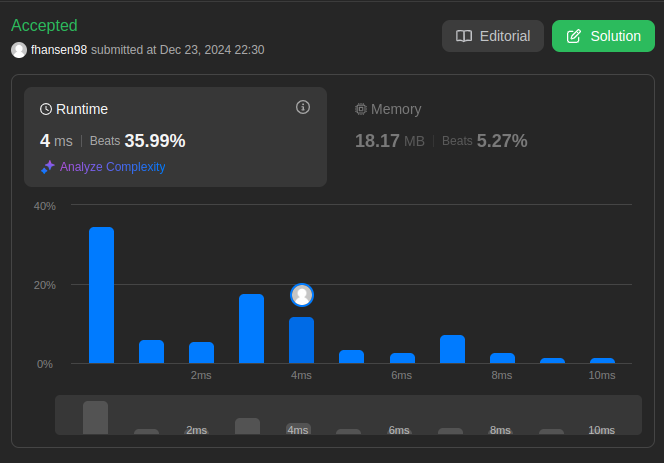
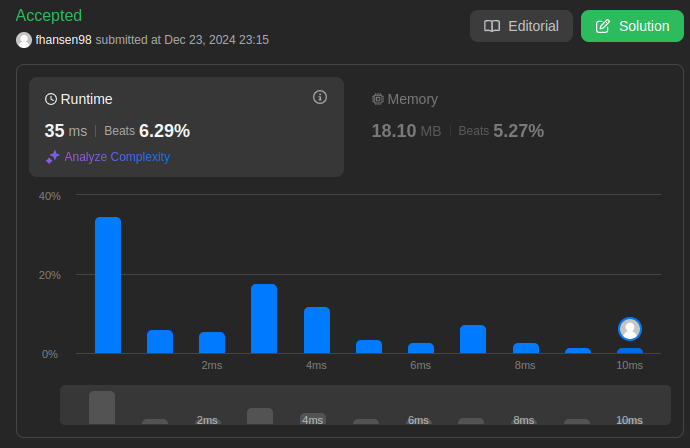
otimizacao da questao 4 para fazer o

diff --git a/Questão_4/questão_4.py b/Questão_4/questão_4.py
@@ -3,22 +3,41 @@ class Solution:
         i, j = 0, 0
         arrayResultante = [] # array resultante do merge dos dois arrays
 
-        # mescla os dois arrays de forma linear
-        while i < len(nums1) and j < len(nums2):
-            if nums1[i] <= nums2[j]:
-                arrayResultante.append(nums1[i])
-                i += 1
-            else:
-                arrayResultante.append(nums2[j])
-                j += 1
+        def merge_sort(arr):
+            if len(arr) <= 1:
+                return arr
 
-        # elementos restantes de nos arrays se um chega ao final
-        while i < len(nums1):
-            arrayResultante.append(nums1[i])
-            i += 1
-        while j < len(nums2):
-            arrayResultante.append(nums2[j])
-            j += 1
+            # divide o array em dois
+            mid = len(arr) // 2
+            left = merge_sort(arr[:mid])
+            right = merge_sort(arr[mid:])
+
+            # mescla metades quando ordenadas ou tamanho 2
+            return merge(left, right)
+
+        # faz o merge das metades de forma linear
+        def merge(left, right):
+            merged = []
+            i = j = 0
+
+            while i < len(left) and j < len(right):
+                if left[i] <= right[j]:
+                    merged.append(left[i])
+                    i += 1
+                else:
+                    merged.append(right[j])
+                    j += 1
+
+            # Adiciona os elementos restantes de cada lado
+            merged.extend(left[i:])
+            merged.extend(right[j:])
+
+            return merged
+
+        num1Sorted = merge_sort(nums1)
+        num2Sorted = merge_sort(nums2)
+        # mescla os dois arrays em um array resultante utilizando a mesma logica
+        arrayResultante = merge(num1Sorted, num2Sorted)
 
         # mediana do array mesclado
         total_length = len(arrayResultante)
